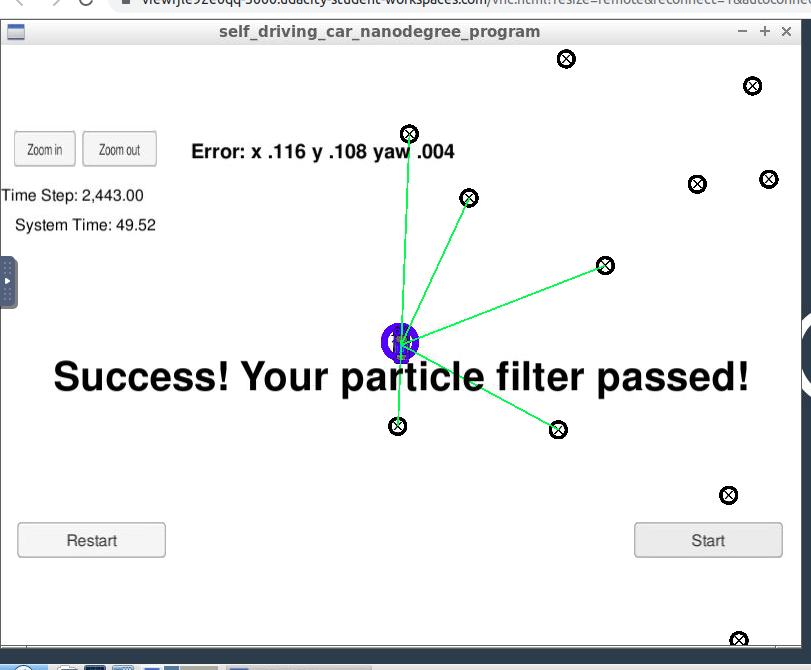
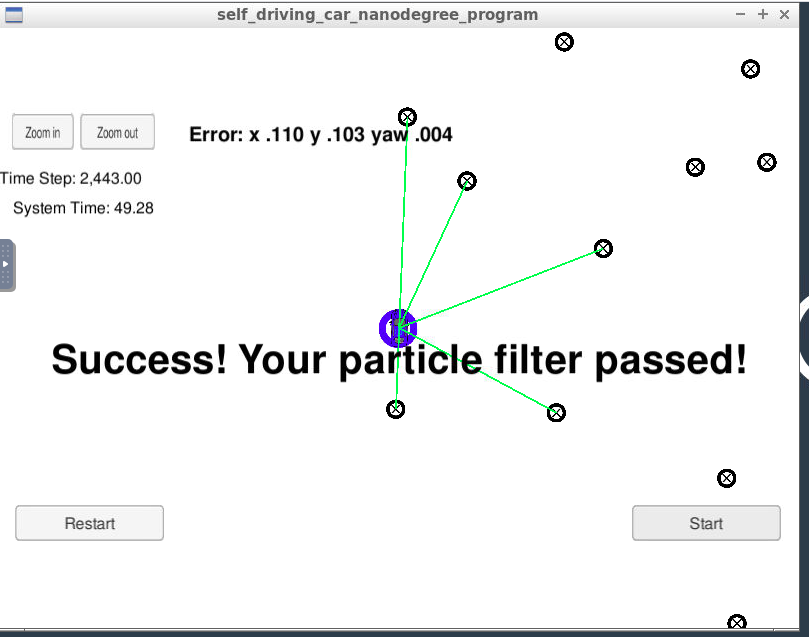
Updating Changes

diff --git a/CarND-Kidnapped-Vehicle-Project-master/src/particle_filter.cpp b/CarND-Kidnapped-Vehicle-Project-master/src/particle_filter.cpp
@@ -25,9 +25,7 @@ using std::normal_distribution;
 
 void ParticleFilter::init(double x, double y, double theta, double std[]) 
 {
-  if(is_initialized)
-      return;
-  num_particles = 101;  // TODO: Set the number of particles
+  num_particles = 200;  //Set the number of particles
 
   normal_distribution<double> dist_x(0, std[0]);
   normal_distribution<double> dist_y(0, std[1]);
@@ -68,7 +66,6 @@ void ParticleFilter::prediction(double delta_t, double std_pos[],
   normal_distribution<double> dist_theta(0, std_pos[2]);
   for(int i =0;i<num_particles;i++)
   {
-      
       if(fabs(yaw_rate) < 0.00001)
       {
           yaw_rate = 0.00001;
@@ -109,7 +106,8 @@ void ParticleFilter::dataAssociation(vector<LandmarkObs> predicted,
 
 void ParticleFilter::updateWeights(double sensor_range, double std_landmark[], 
                                    const vector<LandmarkObs> &observations, 
-                                   const Map &map_landmarks) {
+                                   const Map &map_landmarks) 
+{
   /**
    *  Update the weights of each particle using a mult-variate Gaussian 
    *   distribution. You can read more about this distribution here: 
@@ -123,6 +121,8 @@ void ParticleFilter::updateWeights(double sensor_range, double std_landmark[],
    *   and the following is a good resource for the actual equation to implement
    *   (look at equation 3.33) http://planning.cs.uiuc.edu/node99.html
    */
+    // Clear the weights to avoid bad allocation and adding more particles
+    weights.clear();
     /*x_m = x_p + (cosθ * x_c)−(sinθ * y_c)
     y_m = y_p + (sinθ * x_c) +(cosθ * y_c)*/
     for (int i = 0; i < num_particles; i++) 
@@ -180,39 +180,23 @@ void ParticleFilter::updateWeights(double sensor_range, double std_landmark[],
                particles[i].weight *= weight;
            }
        }
+      weights.push_back(particles[i].weight);
     }
 }
 
-void ParticleFilter::resample() {
+void ParticleFilter::resample() 
+{
   /**
-   * TODO: Resample particles with replacement with probability proportional 
+   * Resample particles with replacement with probability proportional 
    *   to their weight. 
-   * NOTE: You may find std::discrete_distribution helpful here.
+   *  You may find std::discrete_distribution helpful here.
    *   http://en.cppreference.com/w/cpp/numeric/random/discrete_distribution
    */
-    vector<double> weights;
-    for(int i = 0;i<num_particles;i++)
-    {
-        weights.push_back(particles[i].weight);
-    }
-    double max_weight = *max_element(weights.begin(),weights.end());
-      // Creating distributions.
-    std::uniform_real_distribution<double> distDouble(0.0, max_weight);
-    std::uniform_int_distribution<int> distInt(0, num_particles - 1);
-    // Generating index.
-    int index = distInt(m_gen);
-    double beta = 0.0;
-    // the wheel
+    std::discrete_distribution<int> disDist(weights.begin(), weights.end());
     vector<Particle> resampledParticles;
-    for(int i = 0; i < num_particles; i++) 
+    for(int i = 0; i < num_particles; i++)
     {
-        beta += distDouble(m_gen) * 2.0;
-        while( beta > weights[index]) 
-        {
-            beta -= weights[index];
-            index = (index + 1) % num_particles;
-        }
-        resampledParticles.push_back(particles[index]);
+      resampledParticles.push_back(particles[disDist(m_gen)]);
     }
     particles = resampledParticles;
 }

diff --git a/CarND-Kidnapped-Vehicle-Project-master/README.md b/CarND-Kidnapped-Vehicle-Project-master/README.md
@@ -12,7 +12,7 @@ I have coded,built and ran the ./particle_filter and it was successful.Below ima
 
 I had made sure to implement actual particle filter and didnt find a way to beat the automatic grader.My code changes has been mentioned below.
 
-* number of particles of 101 has been set.
+* number of particles of 200 has been set.I started with 100 particle filters,eventhough the particle filter has passed i played around with 200 and reduced the error.
 * For each particle id,x,y,theta,weights has been initialized and added to particles vector
 * Implemented prediction function using the formula mentioned in the coursework
 * Implemented data association i.e taking the nearest prediction
